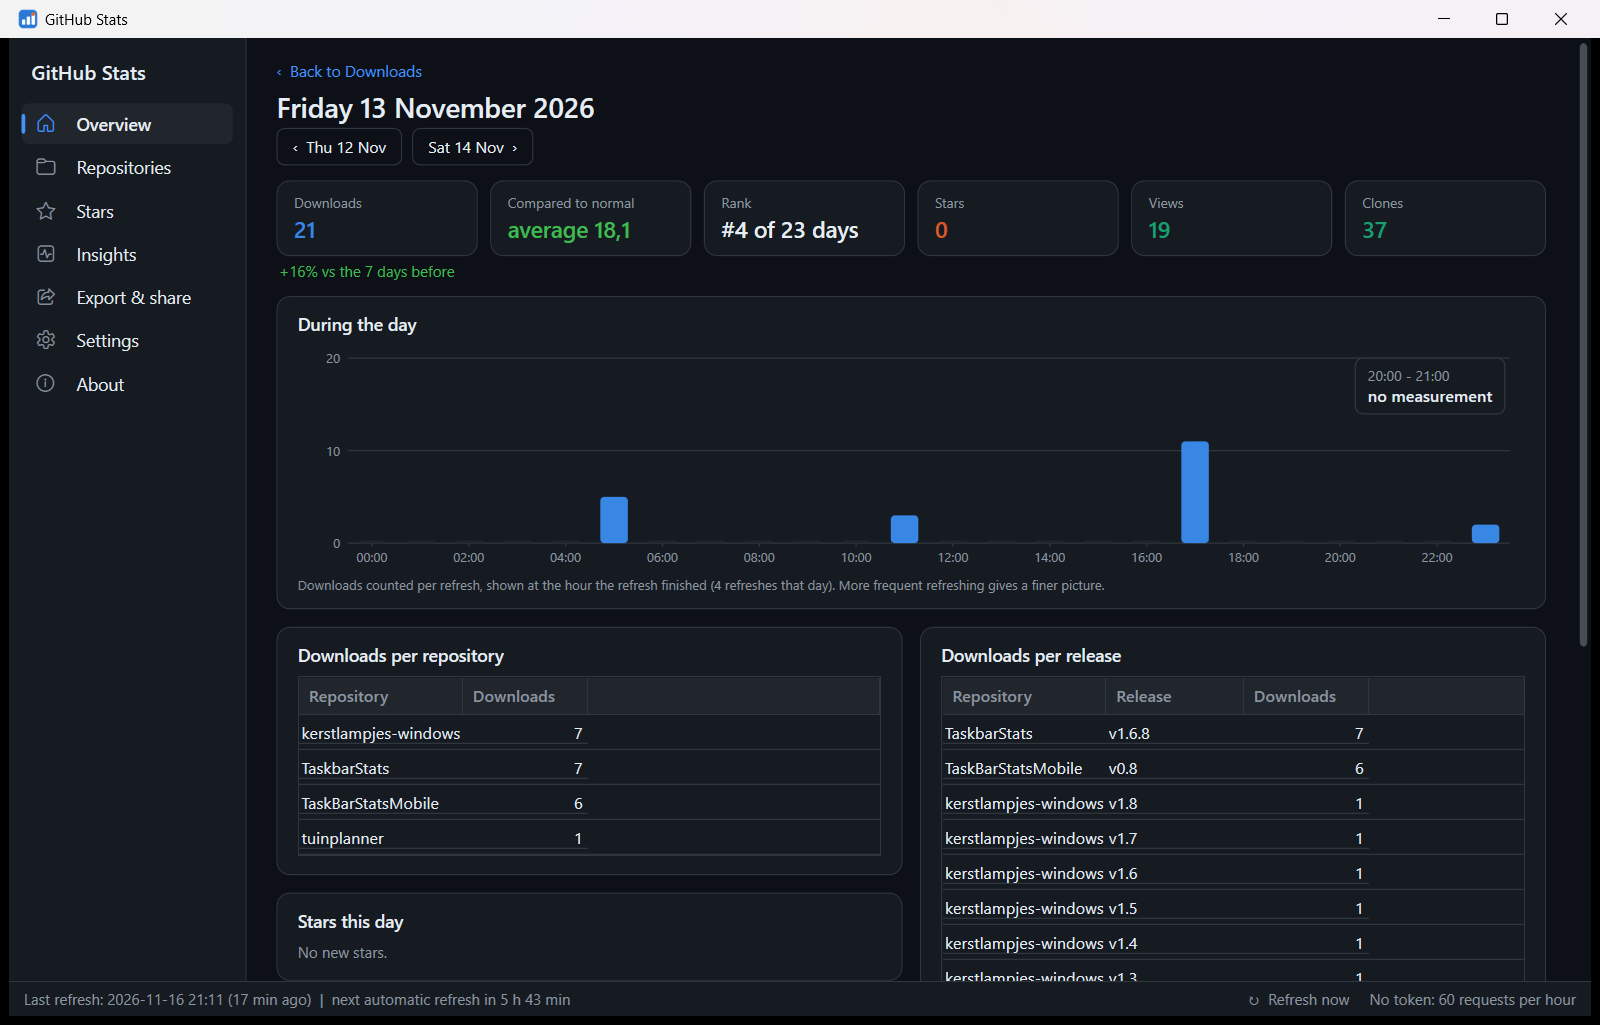
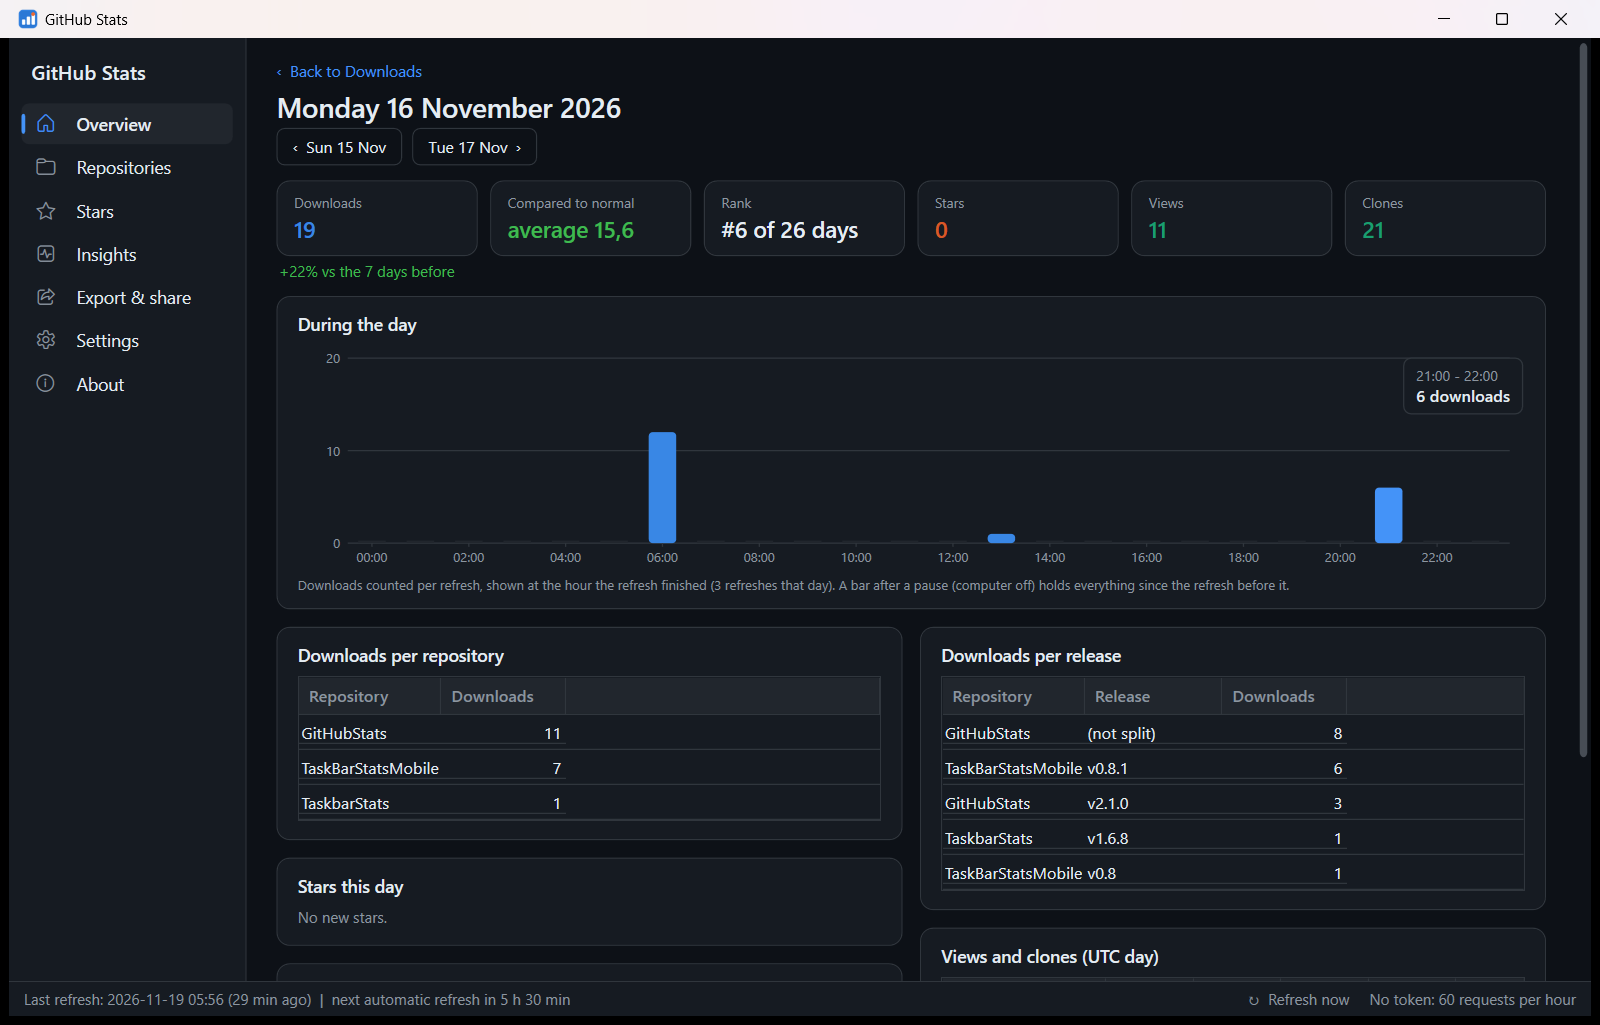
Fix per-release history and day consistency (2.5.1)
Release history replaced points younger than an hour, so with 30-minute
refreshes it barely grew and day/release pages piled several days onto
one. Now one point per clock hour; day values need a measurement the day
before; the day page shows "(not split)" so repo and release boxes agree;
calendar uses the same 7 x 24 h as the cards; 14 days of full detail.

diff --git a/UI/DetailView.cs b/UI/DetailView.cs
@@ -1,4 +1,4 @@
-using System;
+using System;
 using System.Collections.Generic;
 using System.Globalization;
 using System.Linq;
@@ -424,7 +424,7 @@ internal sealed class DetailView : View
         {
             var hb = new DailyBarChart { Height = 180, Hourly = true };
             hb.SetDays(hours, "downloads");
-            Section("During the day", hb, "Downloads counted per refresh, shown at the hour the refresh finished (" + inDay.Count + " refreshes that day). More frequent refreshing gives a finer picture.");
+            Section("During the day", hb, "Downloads counted per refresh, shown at the hour the refresh finished (" + inDay.Count + " refreshes that day). A bar after a pause (computer off) holds everything since the refresh before it.");
         }
 
         // per repository and per release
@@ -436,15 +436,22 @@ internal sealed class DetailView : View
         }
         var relRows = new List<DetailRow>();
         foreach (var r in app.Data.Repos.Values)
+        {
+            long split = 0;
             foreach (var rel in r.Releases)
             {
                 var rd = Daily(rel.History.Select(x => (x[0], x[1])), 400).FirstOrDefault(d => d.Day == day);
-                if (rd.Value is long rv && rv != 0) relRows.Add(new DetailRow { A = r.Name, B = rel.Tag, C = Fmt.N(rv), SC = rv, Open = "release:" + r.Name + "|" + rel.Tag });
+                if (rd.Value is long rv && rv != 0) { relRows.Add(new DetailRow { A = r.Name, B = rel.Tag, C = Fmt.N(rv), SC = rv, Open = "release:" + r.Name + "|" + rel.Tag }); split += rv; }
             }
+            // what the repository gained that day but could not be split per release (no release measurement that day)
+            long repoDay = repoRows.Where(x => x.A == r.Name).Sum(x => (long)x.SB);
+            if (repoDay > split)
+                relRows.Add(new DetailRow { A = r.Name, B = "(not split)", C = Fmt.N(repoDay - split), SC = repoDay - split, Open = "repo:" + r.Name });
+        }
         var two = new MasonryPanel { MinColumnWidth = 420, Gap = 14, Margin = new Thickness(0, 14, 0, 0) };
         two.Children.Add(Box("Downloads per repository", repoRows.Count == 0 ? Ui.Text("No downloads measured this day.", 12, "Muted") :
             Table(new[] { ("Repository", "A", "", 0.0, false), ("Downloads", "B", "SB", 100, true) }, repoRows.OrderByDescending(x => x.SB))));
-        two.Children.Add(Box("Downloads per release", relRows.Count == 0 ? Ui.Text("No release history for this day. Release history is kept from version 2.5 on: hourly for 2 days, then per day.", 12, "Muted", false, true) :
+        two.Children.Add(Box("Downloads per release", relRows.Count == 0 ? Ui.Text("No release history for this day. Per-release history is reliable from version 2.5.1 on (hourly for 14 days, then per day).", 12, "Muted", false, true) :
             Table(new[] { ("Repository", "A", "", 0.0, false), ("Release", "B", "", 110, false), ("Downloads", "C", "SC", 100, true) }, relRows.OrderByDescending(x => x.SC))));
 
         var stars = StarsOn(day);
@@ -503,7 +510,10 @@ internal sealed class DetailView : View
         int rank = ordered.IndexOf(rel) + 1;
         double share = repo.Downloads > 0 ? (double)rel.Downloads / repo.Downloads : 0;
         var daily = Daily(rel.History.Select(x => (x[0], x[1])), 400);
-        long d7 = daily.Skip(Math.Max(0, daily.Count - 7)).Sum(d => d.Value ?? 0);
+        // last 7 days: now minus the last measurement from 7 days ago or earlier (or the first one, for a young release)
+        long since = Clock.Now() - 7 * 86400;
+        var basePt = rel.History.LastOrDefault(x => x[0] <= since) ?? rel.History.FirstOrDefault();
+        long d7 = basePt == null ? 0 : Math.Max(0, rel.Downloads - basePt[1]);
         Facts(("Downloads", Fmt.N(rel.Downloads), "S0"),
               ("Published", pub == DateTime.MinValue ? "-" : TimeZoneInfo.ConvertTimeFromUtc(pub, Clock.Tz).ToString("d MMM yyyy", Inv), "Text"),
               ("Age", age > 0 ? Math.Round(age) + " days" : "-", "Text"),
@@ -644,8 +654,9 @@ internal sealed class DetailView : View
     // ================================================================== per-day helper
 
     /// <summary>
-    /// Change per calendar day (local time) from cumulative points (unix time, total): the last value of each day minus
-    /// the last value of the previous measured day. Oldest first, ending today; null = no measurement that day.
+    /// Change per calendar day (local time) from cumulative points (unix time, total): the last value of the day minus
+    /// the last value of the day before. Oldest first, ending today. null = not measured that day or the day before
+    /// (a change over a longer gap is never put on one day).
     /// </summary>
     private static List<(DateTime Day, long? Value)> Daily(IEnumerable<(long T, long V)> points, int count)
     {
@@ -658,8 +669,8 @@ internal sealed class DetailView : View
         {
             var day = today.AddDays(-i);
             long? val = null;
-            int k = keys.BinarySearch(day);
-            if (k > 0) val = Math.Max(0, lastOfDay[day] - lastOfDay[keys[k - 1]]);
+            // only when the previous day was measured too; otherwise the change would cover several days
+            if (lastOfDay.TryGetValue(day, out long end) && lastOfDay.TryGetValue(day.AddDays(-1), out long before)) val = Math.Max(0, end - before);
             list.Add((day, val));
         }
         return list;

diff --git a/Core/App.cs b/Core/App.cs
@@ -317,12 +317,12 @@ internal sealed class App
     }
 
     /// <summary>
-    /// Keeps the history small without losing its shape: every snapshot of the last 2 days, then one per 6 hours
+    /// Keeps the history small without losing its shape: every snapshot of the last 14 days, then one per 6 hours
     /// (the last of each block). Frequent refreshes therefore never push old history out.
     /// </summary>
     private static List<Snapshot> Thin(List<Snapshot> all)
     {
-        long cutoff = Clock.Now() - 2 * 86400;
+        long cutoff = Clock.Now() - 14 * 86400;
         var old = all.Where(s => s.T < cutoff).GroupBy(s => s.T / 21600).Select(g => g.OrderBy(s => s.T).Last());
         var list = old.Concat(all.Where(s => s.T >= cutoff)).OrderBy(s => s.T).ToList();
         return list.Count > Config.MaxSnapshots ? list.TakeLast(Config.MaxSnapshots).ToList() : list;
@@ -335,19 +335,22 @@ internal sealed class App
 
     private static void AddHistory(List<long[]> h, long t, long downloads)
     {
-        if (h.Count > 0 && h[^1][0] > t - 3600) h[^1] = new[] { t, downloads };
+        // one point per clock hour: a later refresh in the same hour updates that hour's point. (Before 2.5.1 a point
+        // younger than an hour was replaced, so with refreshes every 30 minutes the last point kept sliding forward
+        // and no history was built at all.)
+        if (h.Count > 0 && h[^1][0] / 3600 == t / 3600) h[^1] = new[] { t, downloads };
         else h.Add(new[] { t, downloads });
-        // at most one point per hour for the last 2 days, then the last point of each day (about a year and a half
-        // fits in 600 points), so the day and release pages can show downloads per day for every release
-        long cutoff = t - 2 * 86400;
-        if (h.Count > 48 && h[0][0] < cutoff)
+        // at most one point per hour for the last 14 days, then the last point of each day (well over a year fits in
+        // 800 points), so the day and release pages can show downloads per day and per hour for every release
+        long cutoff = t - 14 * 86400;
+        if (h.Count > 14 * 24 && h[0][0] < cutoff)
         {
             var old = h.Where(x => x[0] < cutoff).GroupBy(x => x[0] / 86400).Select(g => g.Last());
             var kept = old.Concat(h.Where(x => x[0] >= cutoff)).ToList();
             h.Clear();
             h.AddRange(kept);
         }
-        while (h.Count > 600) h.RemoveAt(0);
+        while (h.Count > 800) h.RemoveAt(0);
     }
 
     /// <summary>

diff --git a/UI/OverviewView.cs b/UI/OverviewView.cs
@@ -299,8 +299,12 @@ internal sealed class OverviewView : View
         grid.Margin = new Thickness(-1.5, 0, 0, 4);
         sp.Children.Add(grid);
         sp.Children.Add(WidgetStyles.HeatLegend());
-        long thisWeek = days.Skip(days.Count - 7).Sum(d => d.Value ?? 0);
-        long lastWeek = days.Skip(days.Count - 14).Take(7).Sum(d => d.Value ?? 0);
+        // the same 7 x 24 hours as the cards and the top repositories (not calendar days, today is still running)
+        var all = Host.App.Data.Snapshots;
+        long now = Clock.Now();
+        long At(long t) => (all.LastOrDefault(x => x.T <= t) ?? all.FirstOrDefault())?.Downloads ?? 0;
+        long thisWeek = all.Count == 0 ? 0 : all[^1].Downloads - At(now - 7 * 86400);
+        long lastWeek = all.Count == 0 ? 0 : At(now - 7 * 86400) - At(now - 14 * 86400);
         var best = days.Where(d => d.Value.HasValue).OrderByDescending(d => d.Value).FirstOrDefault();
         var facts = new WrapPanel { Margin = new Thickness(0, 8, 0, 0) };
         facts.Children.Add(Fact("Last 7 days", Fmt.N(thisWeek), thisWeek >= lastWeek ? "Up" : "Down"));

diff --git a/UI/WidgetStyles.cs b/UI/WidgetStyles.cs
@@ -558,8 +558,8 @@ internal static class WidgetStyles
             long? v = null;
             if (lastOfDay.TryGetValue(day, out long end))
             {
-                var prev = lastOfDay.Keys.Where(k => k < day).DefaultIfEmpty(DateTime.MinValue).Max();
-                if (prev != DateTime.MinValue) v = Math.Max(0, end - lastOfDay[prev]);
+                // only when the previous day was measured too; otherwise this would hold several days at once
+                if (lastOfDay.TryGetValue(day.AddDays(-1), out long before)) v = Math.Max(0, end - before);
             }
             list.Add((day, v));
         }

diff --git a/UI/DailyBarChart.cs b/UI/DailyBarChart.cs
@@ -153,6 +153,7 @@ internal sealed class DailyBarChart : FrameworkElement
     private double? LineValue(int i)
     {
         if (_line != null) return _line[i];
+        if (Hourly) return null; // a 7-day average means nothing per hour
         var win = _days.Skip(Math.Max(0, i - 6)).Take(Math.Min(7, i + 1)).Where(d => d.Value != null).Select(d => d.Value!.Value).ToList();
         return win.Count >= 3 ? win.Average() : null;
     }

diff --git a/CHANGELOG.md b/CHANGELOG.md
@@ -1,5 +1,25 @@
 # Changelog
 
+## 2.5.1 (2026-11-19)
+
+### Fixed
+- **Per-release history was hardly recorded.** A measurement younger than an hour was replaced instead of added, so with
+  refreshes every 30 minutes the last point kept moving forward. Release pages and the day page therefore put
+  downloads of several days on one day, and "Downloads per release" did not match "Downloads per repository".
+  History is now recorded once per clock hour.
+- A day's figure is only shown when the day before was measured too; a change over a longer gap (computer off) is no
+  longer put on one day. This applies to every per-day chart, the heatmap and the day page.
+- The day page splits each repository's downloads over its releases and shows what could not be split as
+  "(not split)", so both boxes always add up to the same total.
+- "Last 7 days" on a release page now uses the real change since a week ago.
+- The hourly chart on the day page no longer draws a meaningless 7-day average line.
+- The download calendar's "Last 7 days" counted 7 calendar days (including today, which is still running) and so
+  differed from the cards and top repositories; it now uses the same last 7 x 24 hours.
+
+### Changed
+- Every refresh of the last 14 days is kept (was 2), and release history hourly for 14 days, so "During the day" stays
+  detailed for two weeks.
+
 ## 2.5.0 (2026-11-16)
 
 ### New

diff --git a/docs/USER-GUIDE.md b/docs/USER-GUIDE.md
@@ -24,7 +24,7 @@ GitHub Stats asks GitHub for new numbers on a schedule you choose in **Settings 
 
 The setting shows how many API requests a refresh costs and how much of your hourly limit that uses.
 Every refresh stores a snapshot, and those snapshots make the charts and the *change last / 7d / per day* columns.
-The last 2 days keep every snapshot; older history keeps one per 6 hours, so frequent refreshing never pushes old
+The last 14 days keep every snapshot; older history keeps one per 6 hours, so frequent refreshing never pushes old
 history out.
 
 - **Background refresh** (Settings → Data): on = refresh by itself while the program runs. Off = only
